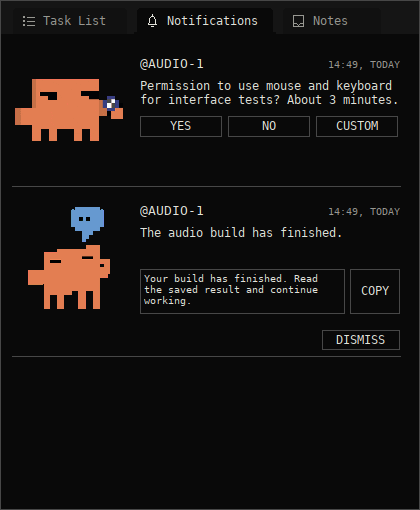
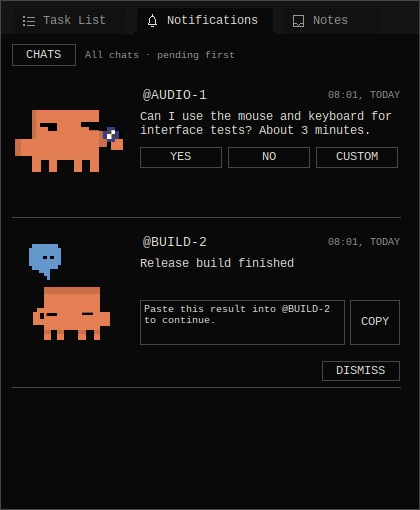
Package the new screens and register the notebook UI checks

diff --git a/tests/ui_tests.cpp b/tests/ui_tests.cpp
@@ -111,7 +111,11 @@ HWND button(HWND root, const wchar_t* caption) {
 
 void click(HWND control) {
     require(IsWindowEnabled(control), "Cannot click a disabled control");
-    message(control, BM_CLICK);
+    const auto caption = knock::narrow(window_text(control));
+    try { message(control, BM_CLICK); }
+    catch (const std::exception& error) {
+        throw std::runtime_error(std::string(error.what()) + "; button: " + caption);
+    }
 }
 
 void enter(HWND control) {

diff --git a/README.md b/README.md
@@ -20,11 +20,21 @@ not. I'll keep changing it as I use it.
 
 ![A personal note conversation](docs/screenshots/note-conversation.png)
 
-![Finding a note by its title](docs/screenshots/note-find.png)
+<details>
+<summary>A few more screens</summary>
 
-![The Settings page](docs/screenshots/settings.png)
+![Picking a saved reply and changing it before sending](docs/screenshots/saved-replies.png)
 
-These use sample records. Your own install starts empty.
+![Editing an entry in a personal note](docs/screenshots/note-entry-edit.png)
+
+![Restoring a deleted note from Trash](docs/screenshots/note-trash.png)
+
+![Preferences at the smallest window size](docs/screenshots/preferences.png)
+
+</details>
+
+These are captures of the Windows build running under Wine, using sample
+records. Your own install starts empty.
 
 ## Using it
 
@@ -88,7 +98,7 @@ takes a couple of commands:
   Exact titles come first, then titles that start with or contain what you
   typed. Click a result or select it with the arrow keys and press **Enter**.
 - **`/delete-note`** opens a separate list for deleting notes. You can add a
-  search after this command too. Clicking a **DELETE** row deletes that note;
+  search after this command too. Clicking a **DELETE** row moves that note to Trash;
   **Back** takes you out of the list.
 - **`/search-notes words`** searches the text inside your conversations. Results
   show a matching excerpt; opening one takes you straight to that entry.
